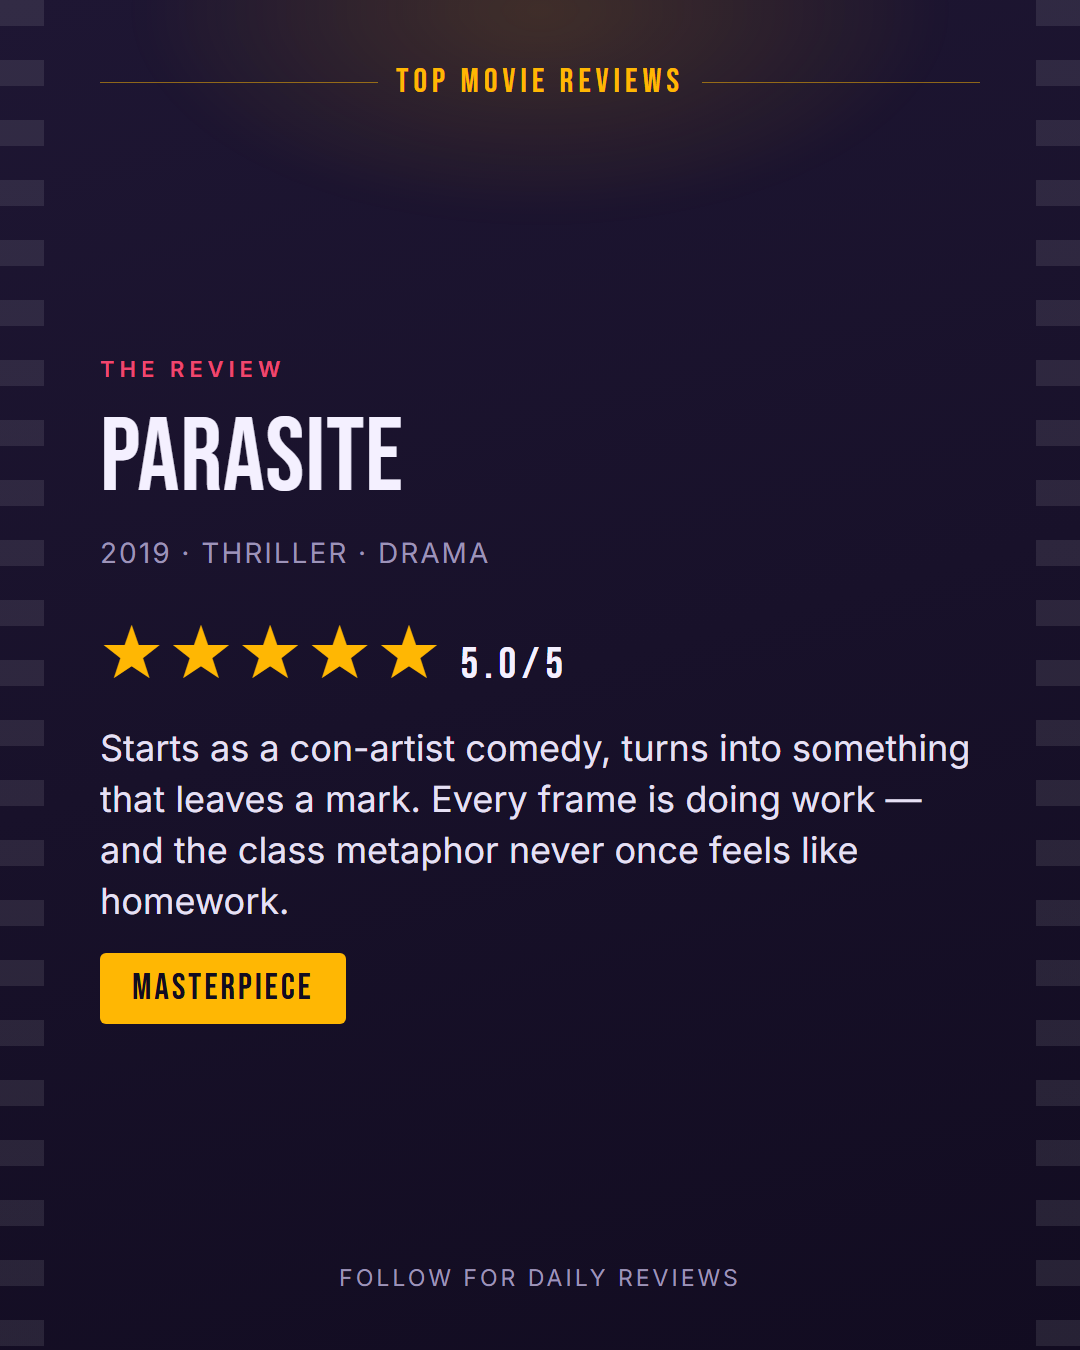
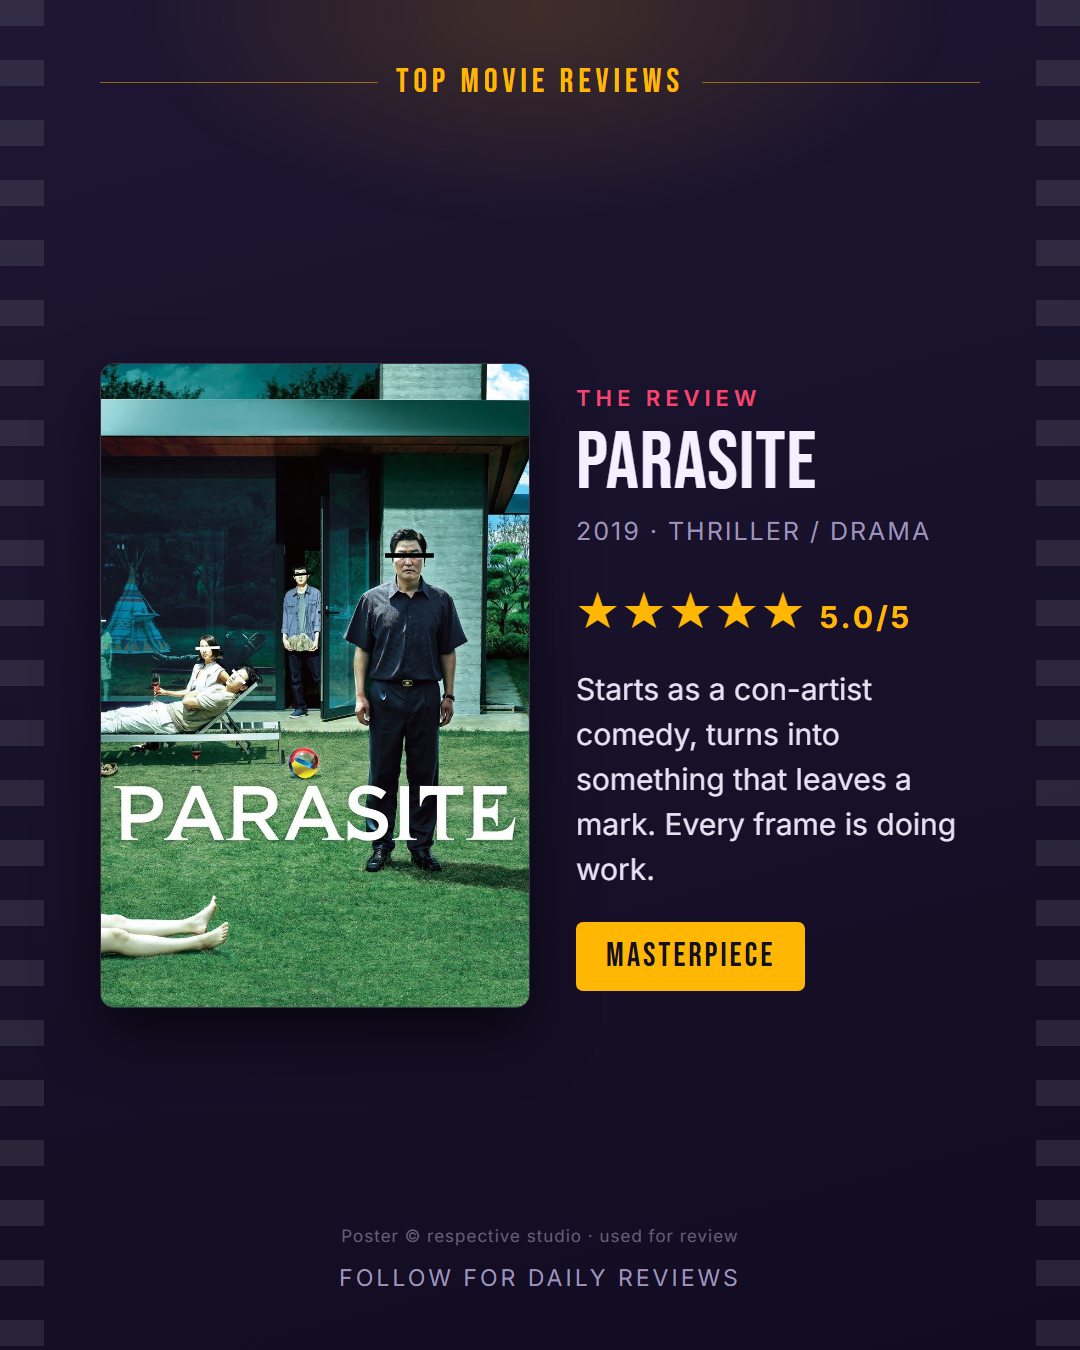
Wire in TMDB: real posters on pillar review cards
- tmdb.py: poster lookup, local poster cache, and movie_facts() for
  verified metadata (director/DoP/editor/composer/cast/budget/gross)
- Parasite and Fury Road review cards re-rendered with official posters
  inside our branded layout, credit line visible
- Runtime claims softened to approximate: TMDB reports 133/121 min vs the
  132/120 commonly cited, so precise minute figures are not asserted

API key stored in gitignored accounts.json only - never hardcoded.

diff --git a/tmdb.py b/tmdb.py
@@ -1,0 +1,105 @@
+# -*- coding: utf-8 -*-
+"""TMDB lookup for Top Movie Reviews poster cards.
+
+TMDB's API is free and its terms permit using their images; posters are used
+here inside our own review layout with a visible credit line (editorial use),
+never reposted standalone.
+
+Key lives in accounts.json (gitignored) — never hardcode or commit it.
+
+  poster_url("Parasite", 2019)            -> https://image.tmdb.org/t/p/w780/....jpg
+  movie_facts("Parasite", 2019)           -> dict of verified metadata
+  cache_poster("Parasite", 2019, "x.jpg") -> local path (downloaded)
+"""
+import json
+import os
+import urllib.parse
+import urllib.request
+from pathlib import Path
+
+_HERE = Path(__file__).parent
+API = "https://api.themoviedb.org/3"
+IMG = "https://image.tmdb.org/t/p"
+
+
+def _key():
+    with open(_HERE / "accounts.json", encoding="utf-8") as f:
+        k = json.load(f).get("tmdb_api_key")
+    if not k:
+        raise RuntimeError("tmdb_api_key missing from accounts.json")
+    return k
+
+
+def _get(path, **params):
+    params["api_key"] = _key()
+    url = f"{API}/{path}?" + urllib.parse.urlencode(params)
+    with urllib.request.urlopen(url, timeout=25) as r:
+        return json.load(r)
+
+
+def find(title, year=None):
+    """Best matching movie record, or None."""
+    p = {"query": title}
+    if year:
+        p["year"] = year
+    res = _get("search/movie", **p).get("results") or []
+    if not res:  # retry without the year filter
+        res = _get("search/movie", query=title).get("results") or []
+    return res[0] if res else None
+
+
+def poster_url(title, year=None, size="w780"):
+    m = find(title, year)
+    if not m or not m.get("poster_path"):
+        return ""
+    return f"{IMG}/{size}{m['poster_path']}"
+
+
+def cache_poster(title, year=None, out_dir="images/posters", size="w780"):
+    """Download the poster once and return a local path (stable for re-renders)."""
+    url = poster_url(title, year, size)
+    if not url:
+        return ""
+    out = _HERE / out_dir
+    out.mkdir(parents=True, exist_ok=True)
+    safe = "".join(c if c.isalnum() else "_" for c in f"{title}_{year or ''}").strip("_")
+    dest = out / f"{safe}.jpg"
+    if not dest.is_file() or dest.stat().st_size < 1000:
+        req = urllib.request.Request(url, headers={"User-Agent": "Mozilla/5.0"})
+        with urllib.request.urlopen(req, timeout=40) as r, open(dest, "wb") as f:
+            f.write(r.read())
+    return str(dest.relative_to(_HERE)).replace(os.sep, "/")
+
+
+def movie_facts(title, year=None):
+    """Verified metadata for review captions — never guess these by hand."""
+    m = find(title, year)
+    if not m:
+        return {}
+    d = _get(f"movie/{m['id']}", append_to_response="credits")
+    crew = {c["job"]: c["name"] for c in d.get("credits", {}).get("crew", [])}
+    cast = [c["name"] for c in d.get("credits", {}).get("cast", [])[:6]]
+    return {
+        "title": d.get("title"),
+        "year": (d.get("release_date") or "")[:4],
+        "release_date": d.get("release_date"),
+        "runtime": d.get("runtime"),
+        "budget": d.get("budget"),
+        "revenue": d.get("revenue"),
+        "genres": [g["name"] for g in d.get("genres", [])],
+        "tmdb_score": d.get("vote_average"),
+        "tmdb_votes": d.get("vote_count"),
+        "director": crew.get("Director"),
+        "dop": crew.get("Director of Photography"),
+        "editor": crew.get("Editor"),
+        "composer": crew.get("Original Music Composer"),
+        "cast": cast,
+        "poster": poster_url(title, year),
+    }
+
+
+if __name__ == "__main__":
+    import sys
+    sys.stdout.reconfigure(encoding="utf-8")
+    for t, y in [("Parasite", 2019), ("Mad Max: Fury Road", 2015)]:
+        print(json.dumps(movie_facts(t, y), indent=1, ensure_ascii=False))

diff --git a/tmr_longform.py b/tmr_longform.py
@@ -25,7 +25,7 @@ WHAT: A South Korean dark comedy that quietly becomes a thriller. A poor family 
 
 WHO: Directed by Bong Joon-ho, who co-wrote it with Han Jin-won. Song Kang-ho leads as the father, with Choi Woo-shik and Park So-dam as the son and daughter, Jang Hye-jin as the mother, and Lee Sun-kyun, Cho Yeo-jeong, Park Myung-hoon and Lee Jung-eun on the other side of the story. Shot by Hong Kyung-pyo, cut by Yang Jin-mo, scored by Jung Jae-il.
 
-WHEN: Premiered at Cannes on 21 May 2019, where it became the first Korean film ever to win the Palme d'Or. Runtime is 132 minutes.
+WHEN: Premiered at Cannes on 21 May 2019, where it became the first Korean film ever to win the Palme d'Or. Runtime is about 2 hours 12 minutes.
 
 HOW MUCH: Made for roughly $11.4 million. Earned about $257.6 million worldwide — more than twenty times its cost.
 
@@ -129,7 +129,7 @@ WHAT: A war rig goes one way across the desert, then turns around and comes back
 
 WHO: Directed and co-written by George Miller, who made the original Mad Max in 1979. Tom Hardy plays Max, Charlize Theron plays Furiosa, Nicholas Hoult plays Nux, and Hugh Keays-Byrne plays Immortan Joe — the same actor who played the villain Toecutter in the 1979 original. Shot by John Seale, who came out of retirement to do it. Cut by Margaret Sixel. Scored by Junkie XL.
 
-WHEN: Released in 2015, roughly thirty years after the previous Mad Max film. Runtime is 120 minutes.
+WHEN: Released in 2015, roughly thirty years after the previous Mad Max film. Runtime is about 2 hours.
 
 HOW MUCH: Budget reported between $154 million and $185 million. Earned about $380 million worldwide.
 
